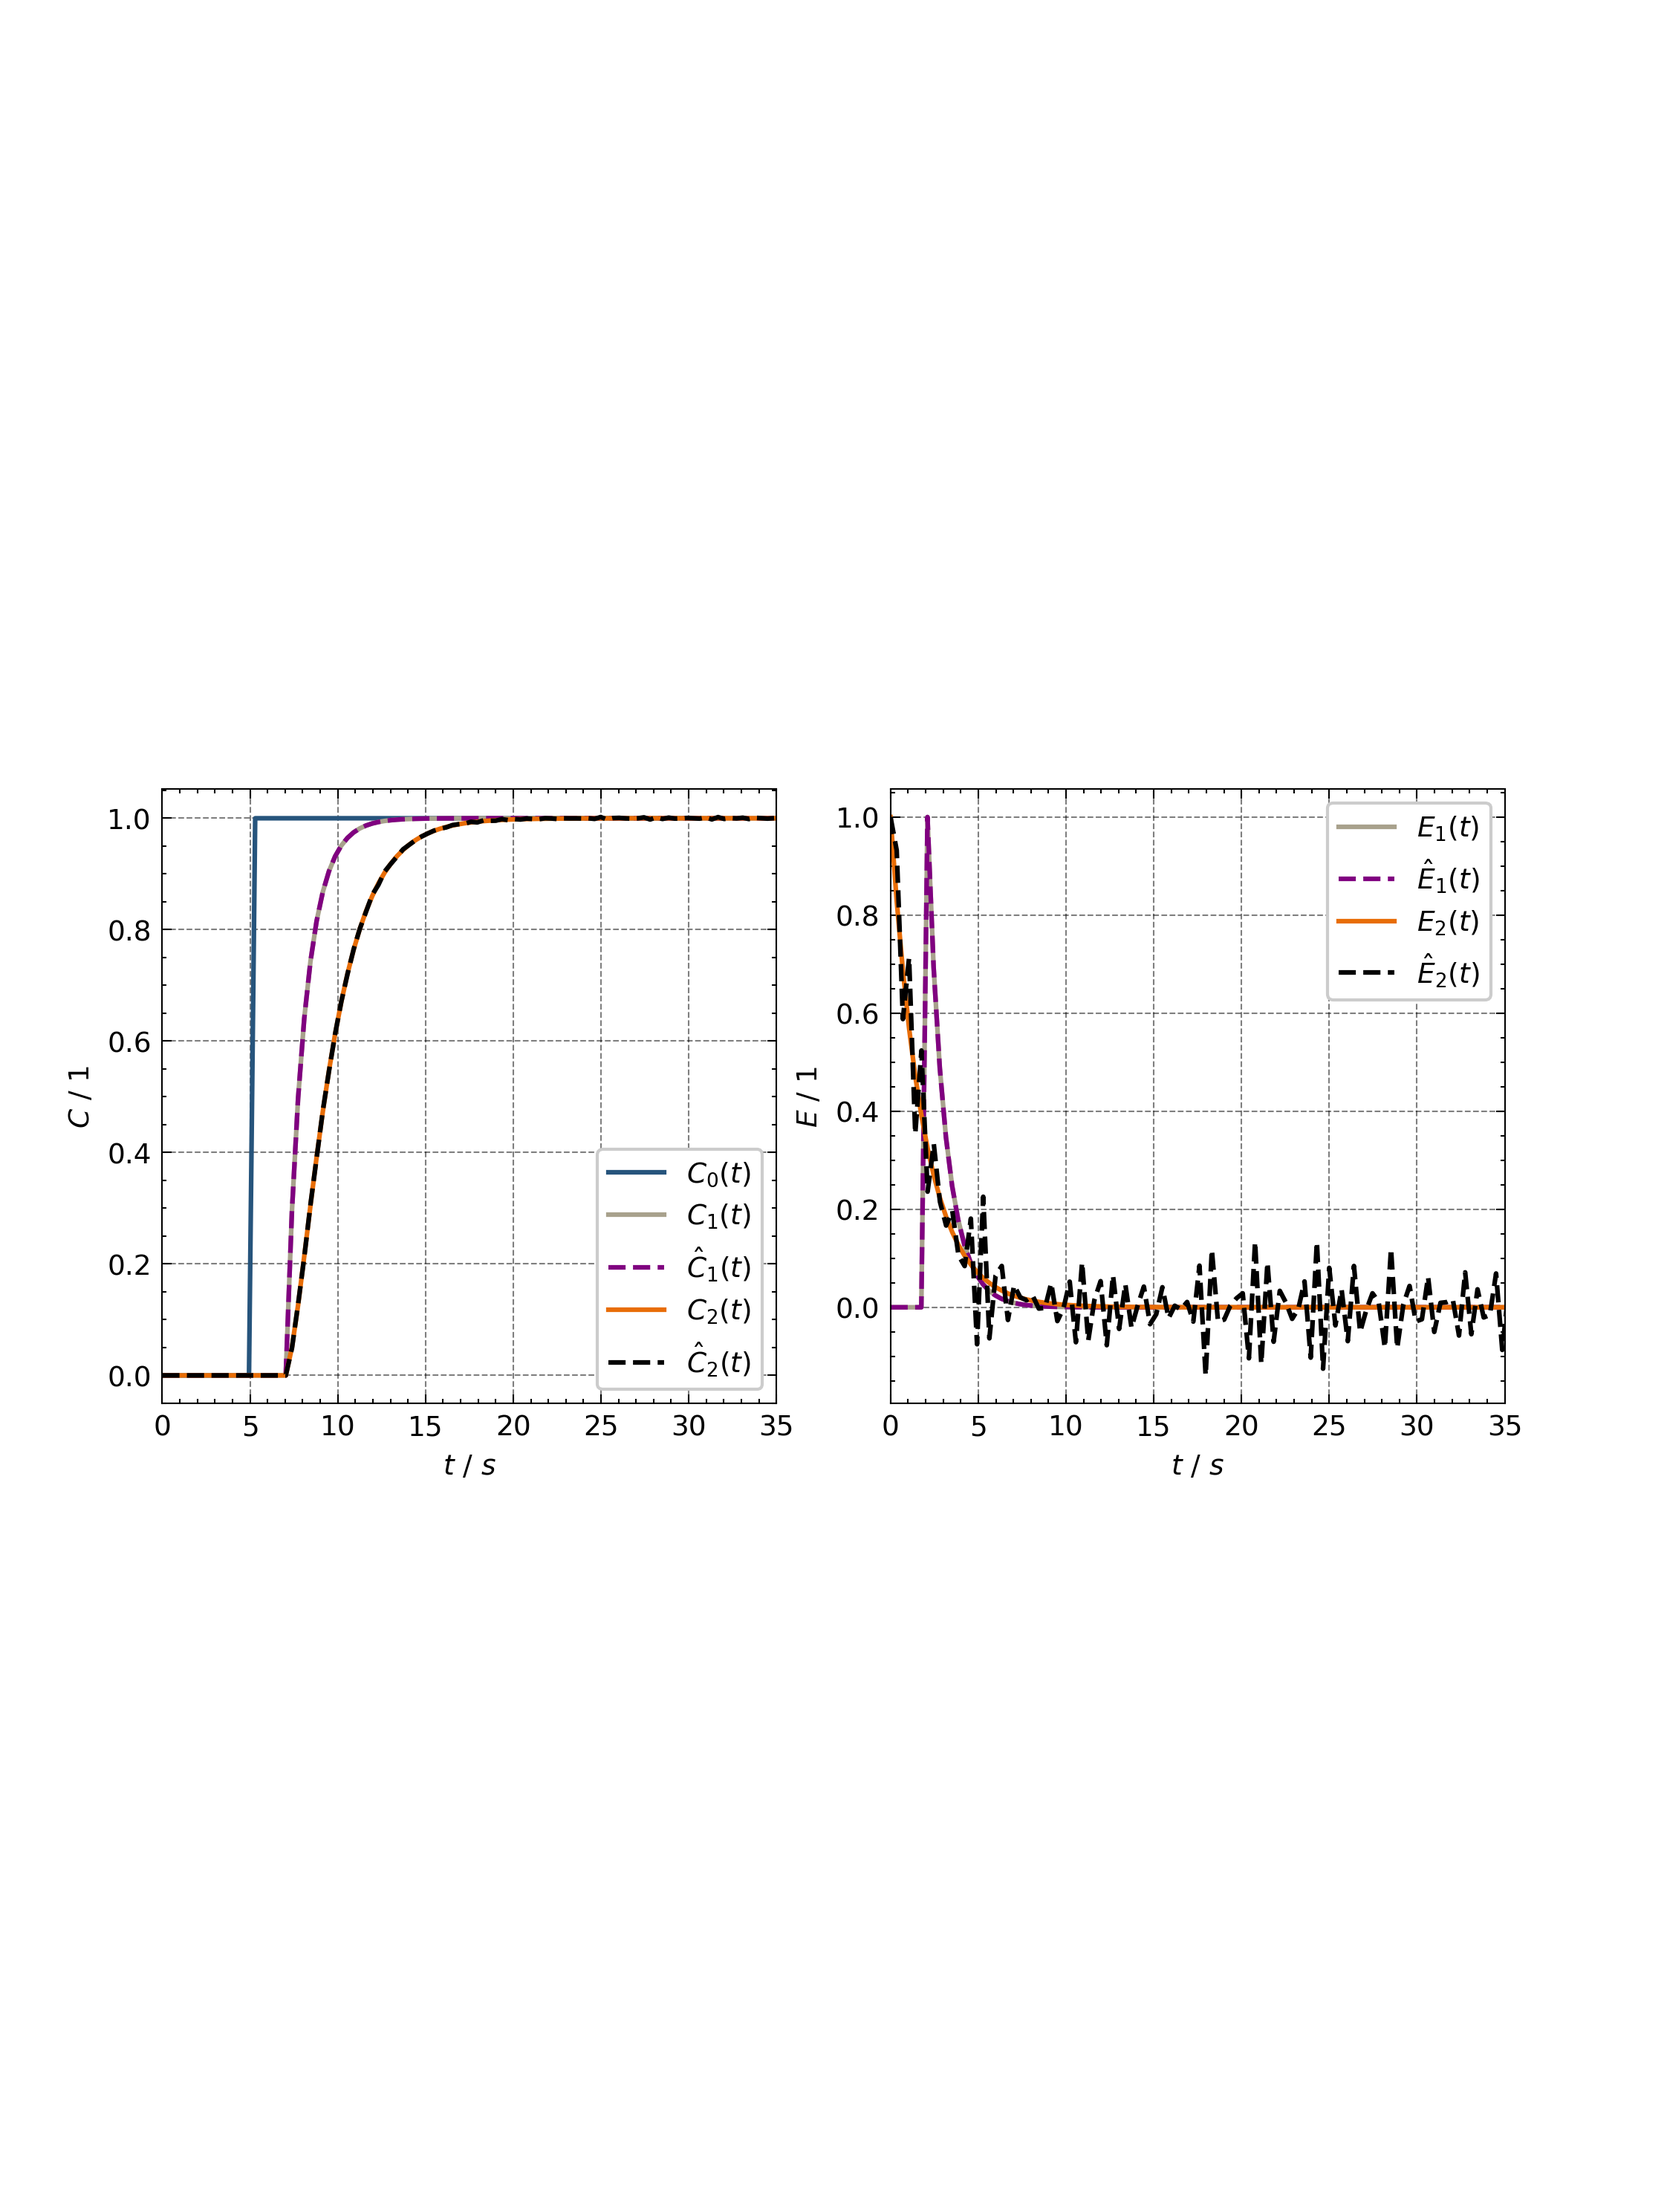
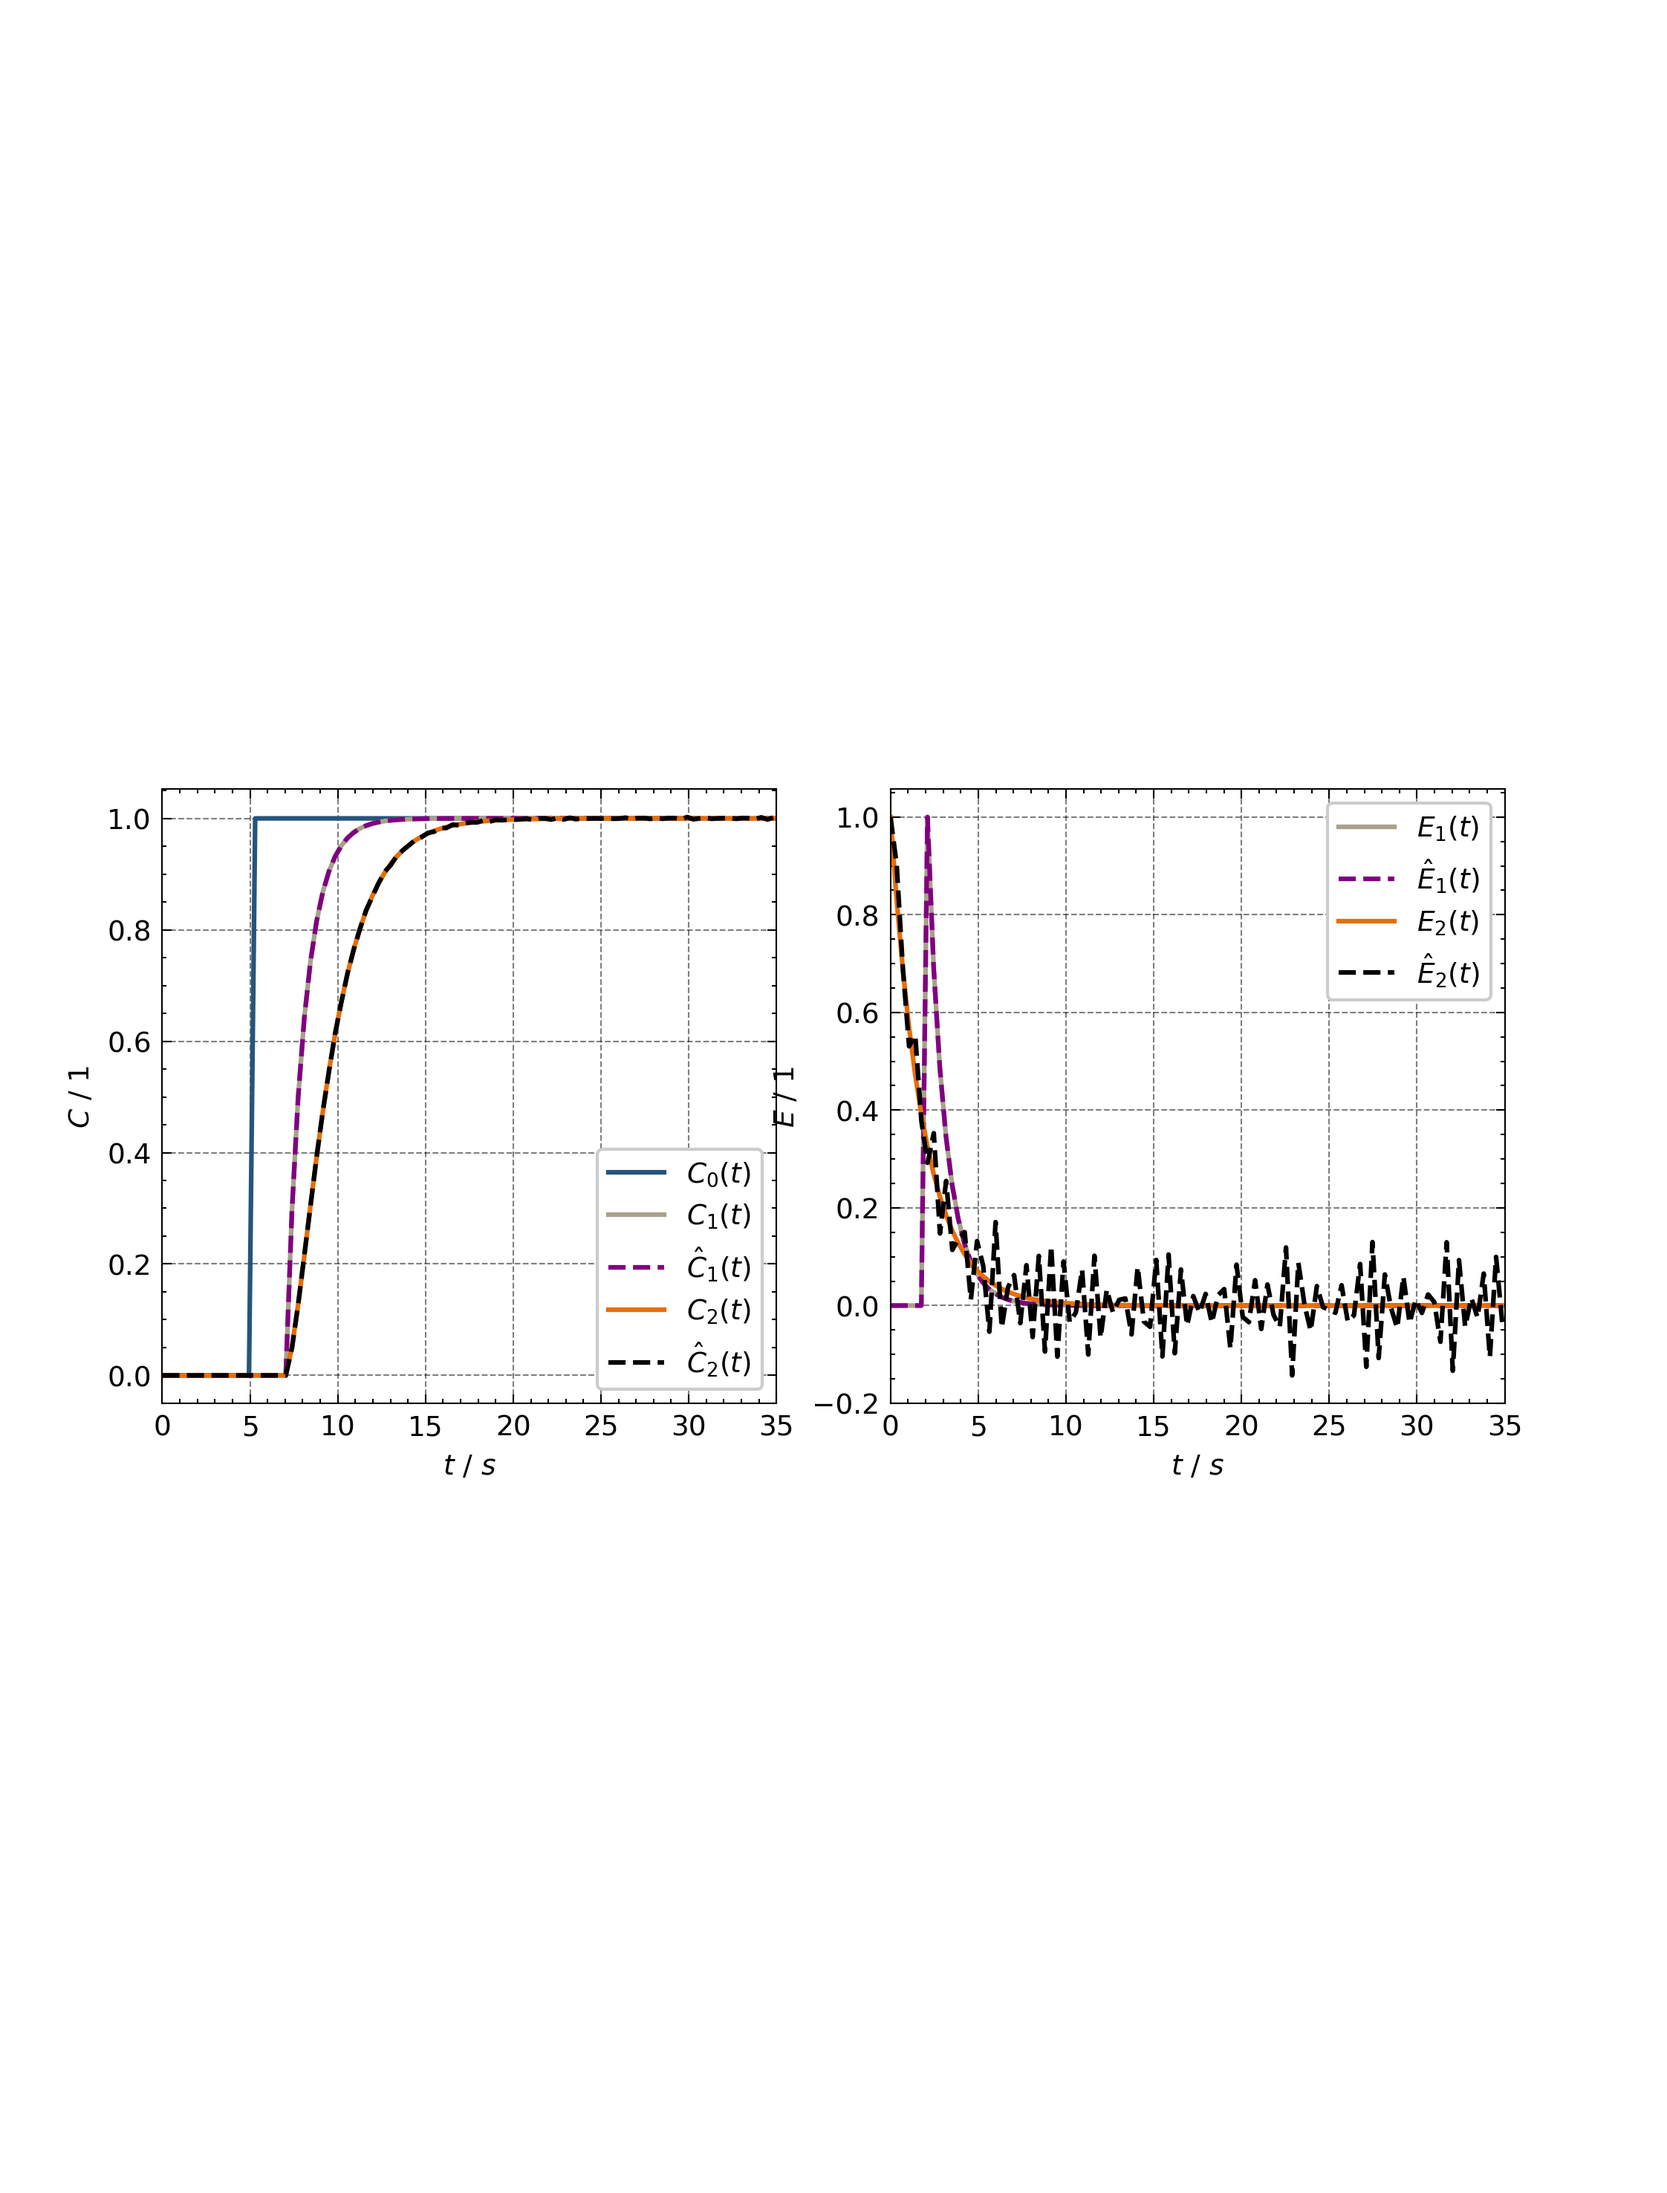
Plotting

Changed region(s): [[0.5303, 0.4363, 0.9046, 0.6233]]

diff --git a/Experiments/Preliminary/2nd_Layer_Adler_Cholete/2bd_Layer_Adler_cholete_draft.py b/Experiments/Preliminary/2nd_Layer_Adler_Cholete/2bd_Layer_Adler_cholete_draft.py
@@ -11,7 +11,7 @@ import numpy as np
 import wandb
 #module_path = os.path.expanduser("~/Documents/GitHub/nRTD/lib")
 #sys.path.append(module_path)
-from nRTD.rtd_fitting_2 import RTDModule
+from nRTD.rtd_fitting_3 import RTDModule
 from nRTD.rtd_net_4 import RTDNet
 from lightning.pytorch import loggers as pl_loggers
 import os
@@ -29,8 +29,9 @@ coefficients = {
     'tau_p_val': np.array([2]), 
     'beta_val': np.array([0.1]), 
     'alpha_val': 0.2}
+
 epoch_1=35000
-epoch_2=100000
+epoch_2=750000
 epoch_3=epoch_1
 learning_rate=1e-2
 disc_n_1_out=200
@@ -510,7 +511,7 @@ plt.style.use("ICIWstyle")
 fig = plt.figure( figsize=(Elsevier_Sizes.double_column["in"], 25 * cm2inch))  # Increased figure height for better spacing
 axs = make_square_subplots(
     fig=fig,
-    ax_width=7 * cm2inch,#dimension of the plots
+    ax_width=6 * cm2inch,#dimension of the plots
     ax_layout=(1, 2),  
     h_sep=1.3 * cm2inch,  
     v_sep=1 * cm2inch, 

diff --git a/Experiments/Preliminary/2_nd_Layer_exp/0001/H_085/Convolution_script_exp_085.py b/Experiments/Preliminary/2_nd_Layer_exp/0001/H_085/Convolution_script_exp_085.py
@@ -13,7 +13,7 @@ import wandb
 # sys.path.append(module_path)
 module_path = r"D:\Tuana\nRTD\lib"
 sys.path.append(module_path)
-from nRTD.rtd_fitting_2 import RTDModule
+from nRTD.rtd_fitting_3 import RTDModule
 from nRTD.rtd_net_4 import RTDNet
 from lightning.pytorch import loggers as pl_loggers
 import os
@@ -389,11 +389,9 @@ axs = make_square_subplots(
     h_sep=1.3 * cm2inch,  
     v_sep=1 * cm2inch, 
     sharex=True,
-    sharey=True,
+    sharey=False,
     xlabel=[r"$t$ / $s$", r"$t$ / $s$"], 
-    ylabel=
-        [r"$C$ / $1$"
-    ])
+    ylabel=[[r"$C$ / $1$", r"$E$ / $1$"]] )
 
 axs[0, 0].plot(t_input, c_in[0, 0, :].numpy(), label=r"$C_0(t)$", color=ICIWcolors.CERULEAN)
 

diff --git a/Experiments/Preliminary/Disc_variation/Disc_var_2511.py b/Experiments/Preliminary/Disc_variation/Disc_var_2511.py
@@ -128,7 +128,7 @@ for n_disc_o, kernel_size, n_disc in discretization_confg_second:
     model = RTDModule(
         kernel_sizes=[n_e_1],
         kernel_times=[(0.0, t_e_1)],
-        learning_rate=1e-4,
+        learning_rate=1e-2,
         use_scheduler=True,
         scheduler_kwargs={"factor": 0.5, "patience": 80},
     )
